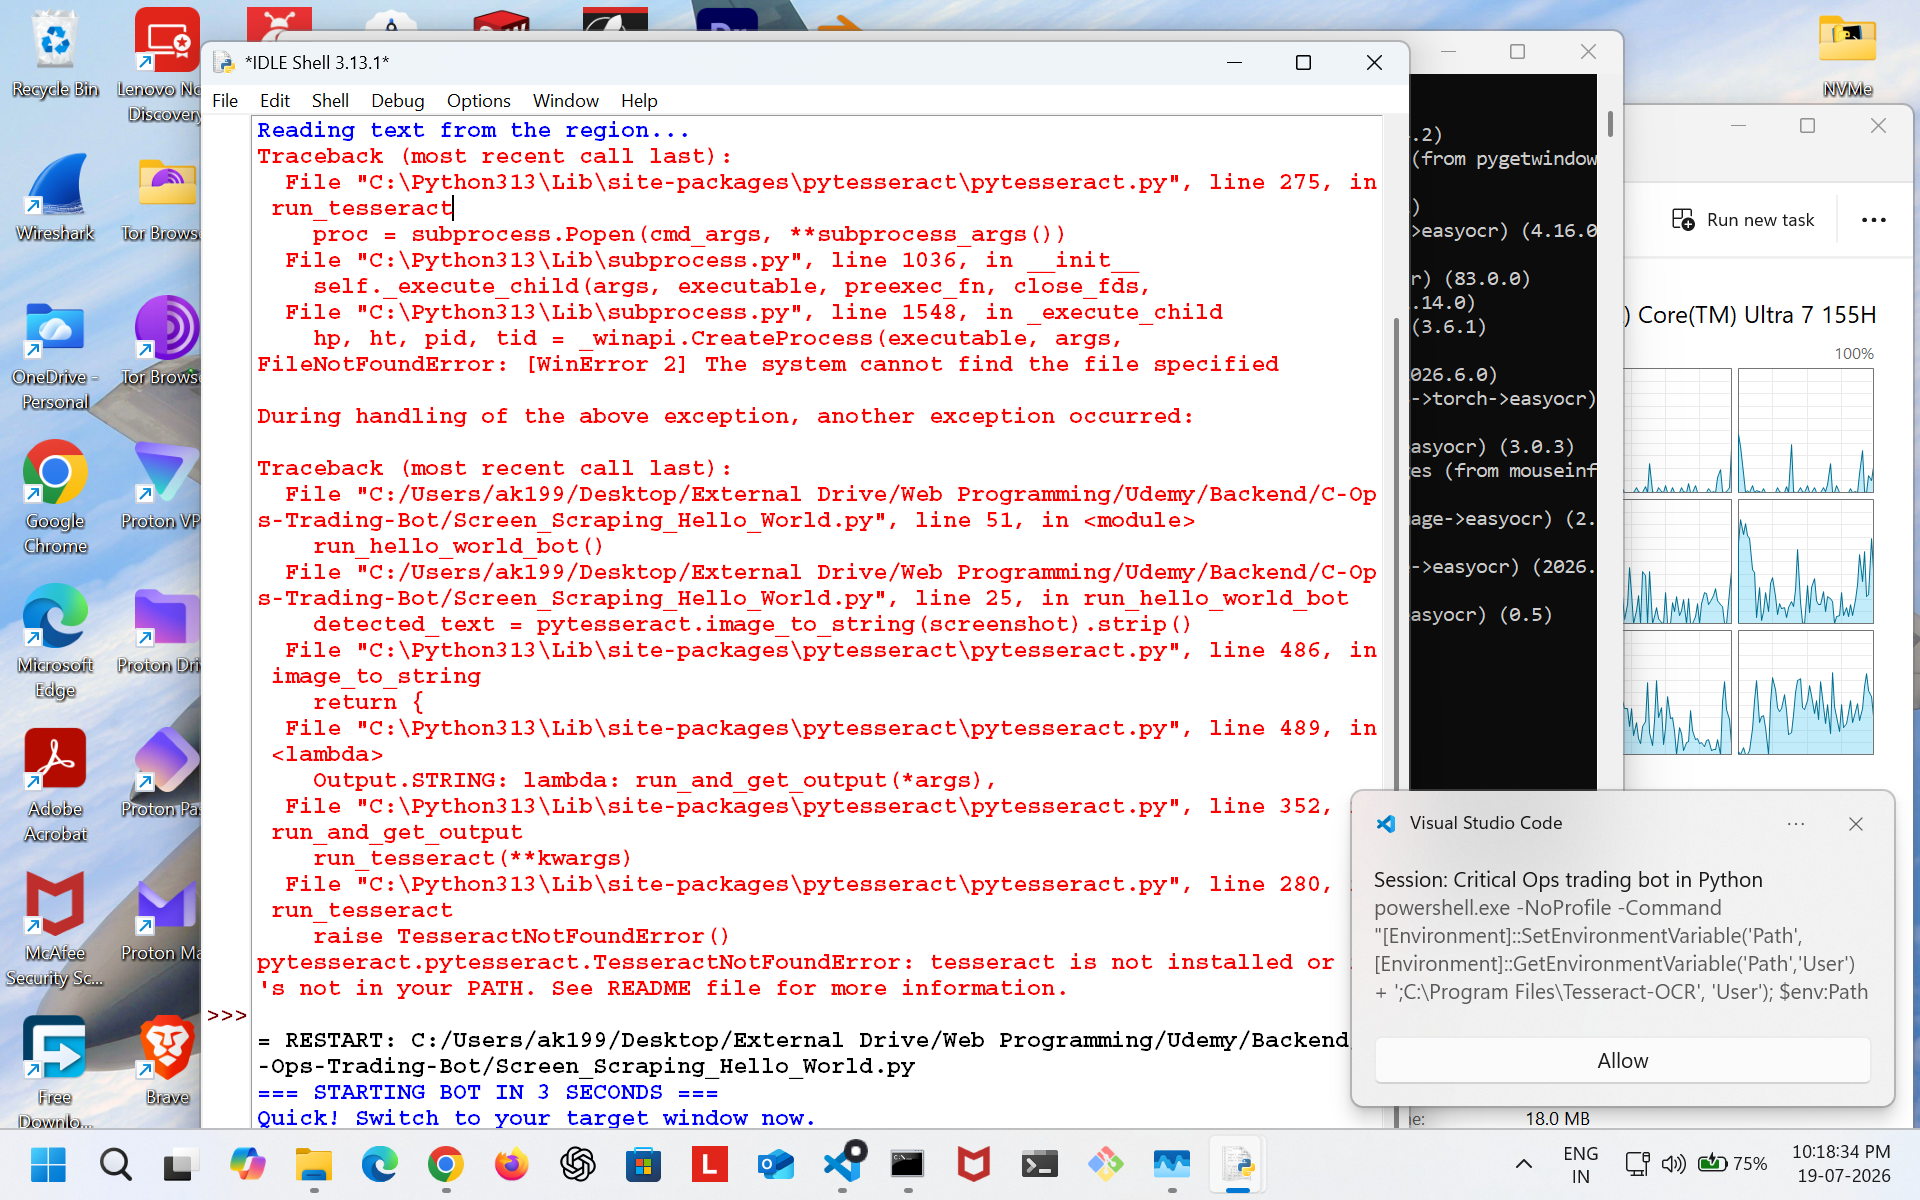
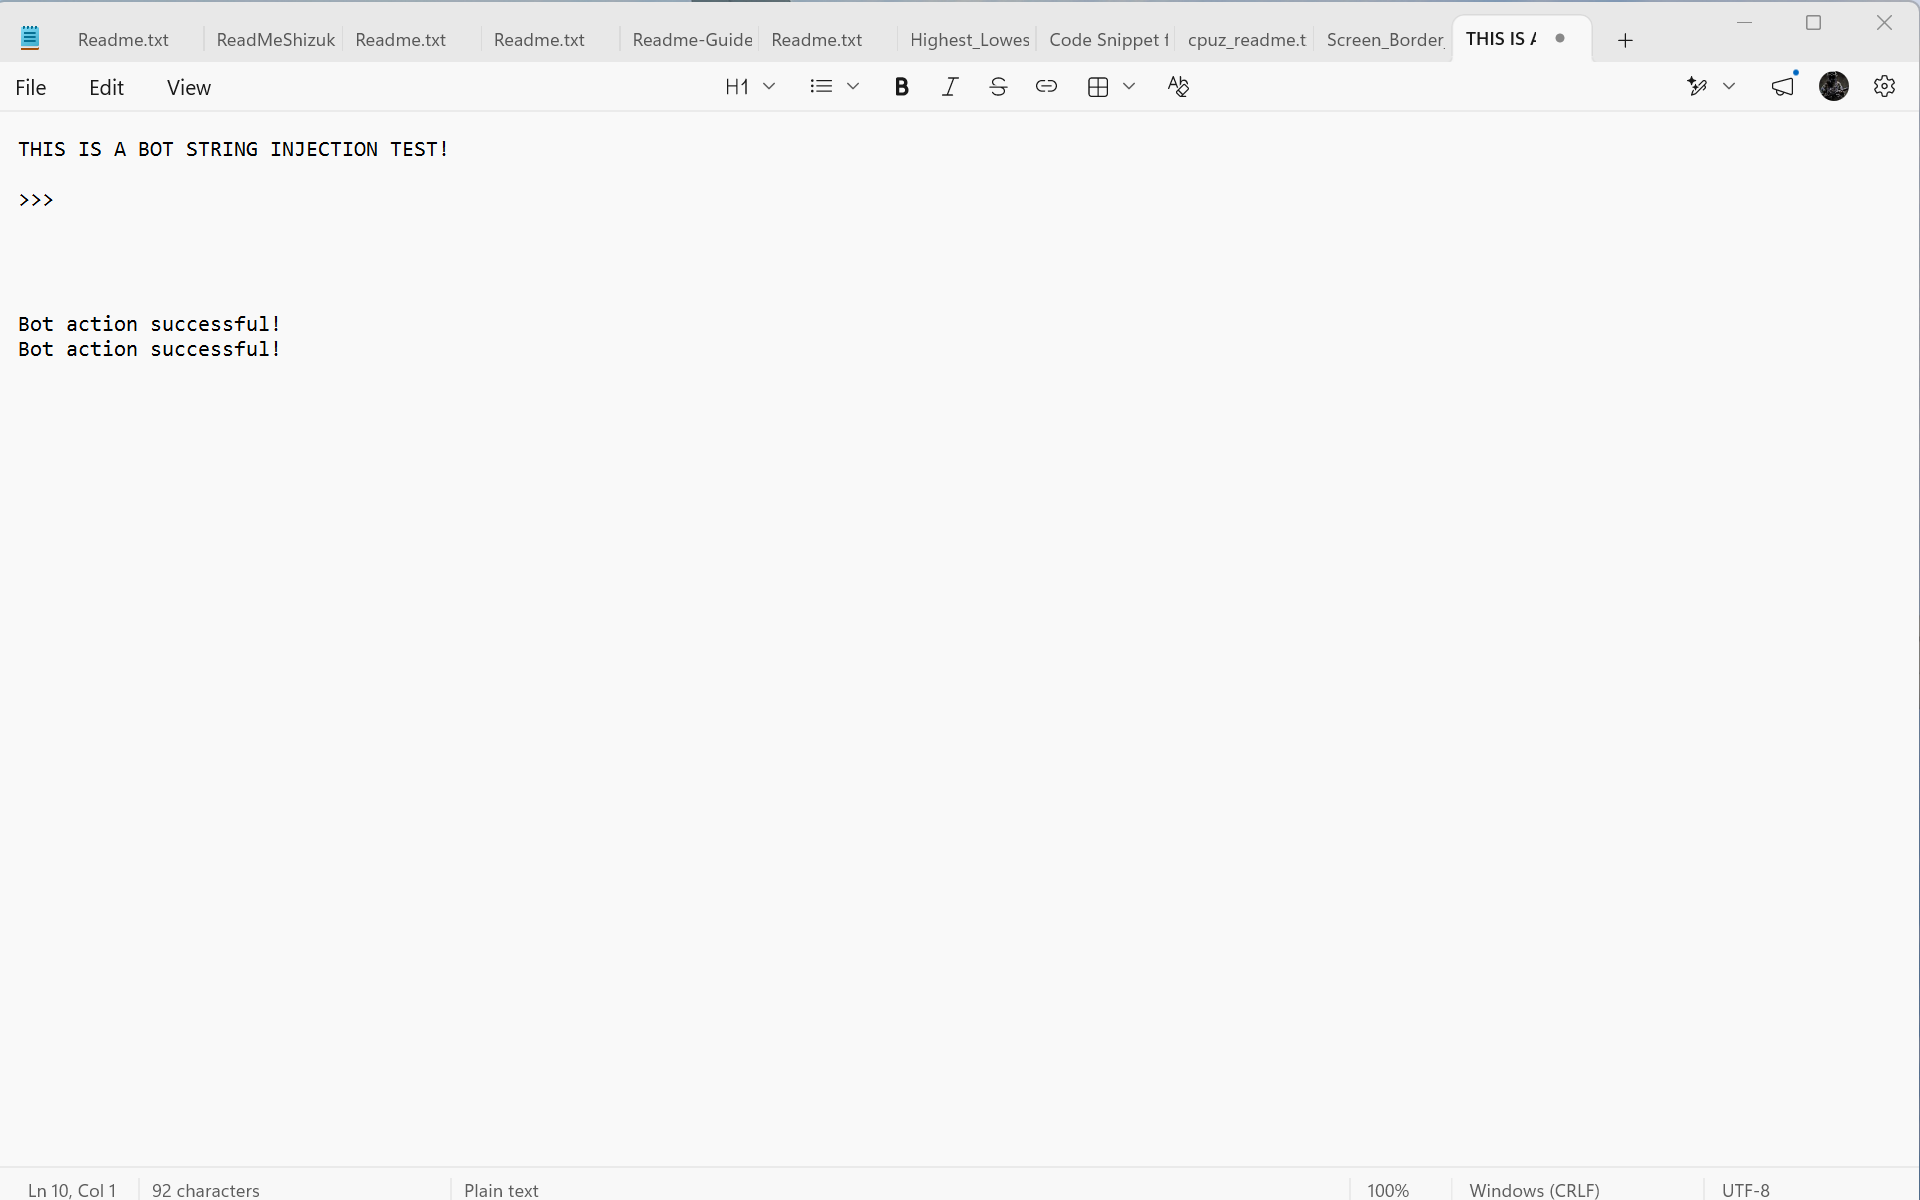
The test using Scree_Scraping_Hello_World.py is Successful! it is taking Screenshot -> Reading Text from it -> moving cursor to the desired location -> and then clicking -> then starts inserting text character by character...

diff --git a/Screen_Scraping_Hello_World.py b/Screen_Scraping_Hello_World.py
@@ -1,51 +1,68 @@
+import os
+import shutil
 import time
 import pyautogui
 import pytesseract
 from PIL import Image
 
-# WINDOWS USERS: Change this to your actual Tesseract installation path
-# pytesseract.pytesseract.tesseract_cmd = r'C:/Program Files/Tesseract-OCR/tesseract.exe'
+
+def _configure_tesseract() -> str:
+    """Locate and configure the Tesseract executable for this Windows environment."""
+    candidates = [
+        r"C:\Program Files\Tesseract-OCR\tesseract.exe",
+        r"C:\Program Files (x86)\Tesseract-OCR\tesseract.exe",
+        os.path.join(os.environ.get("LOCALAPPDATA", ""), "Programs", "Tesseract-OCR", "tesseract.exe"),
+        os.path.join(os.environ.get("USERPROFILE", ""), "AppData", "Local", "Programs", "Tesseract-OCR", "tesseract.exe"),
+    ]
+
+    for candidate in candidates:
+        if os.path.isfile(candidate):
+            pytesseract.pytesseract.tesseract_cmd = candidate
+            os.environ["PATH"] = os.path.dirname(candidate) + os.pathsep + os.environ.get("PATH", "")
+            return candidate
+
+    resolved = shutil.which("tesseract")
+    if resolved:
+        pytesseract.pytesseract.tesseract_cmd = resolved
+        return resolved
+
+    raise RuntimeError("Tesseract is not installed or could not be found on this machine.")
+
+
+TESSERACT_EXE = _configure_tesseract()
+print(f"Using Tesseract at: {TESSERACT_EXE}")
+
 
 def run_hello_world_bot():
     print("=== STARTING BOT IN 3 SECONDS ===")
     print("Quick! Switch to your target window now.")
     time.sleep(3)
 
-    # 1. SCREEN SCRAPING (Capture top-left corner of your primary screen)
-    # Box parameters: (left_x, toy_y, width, height)
     sample_region = (0, 0, 1920, 1200)
     screenshot = pyautogui.screenshot(region=sample_region)
-
-    # Save image locally so you can physically see what the bot looked at
     screenshot.save("bot_vision_test.png")
     print("Captured screenshot saved as 'bot_vision_test.png'")
 
-    # 2. OCR (Read text from the screen region)
     print("Reading text from the region...")
     detected_text = pytesseract.image_to_string(screenshot).strip()
-    print(f"OCR Result found: '{detected_text}'")
+    print(f"OCR Result found: '\n\n{detected_text}\n\n'")
 
-    # 3. MOUSE ACTION (Move smoothly to the center of our region)
-    # Center calculation: left + (width / 2), top + (height / 2)
     center_x = 0 + (1920 // 2)
     center_y = 0 + (1200 // 2)
 
     print(f"Moving mouse to center position: ({center_x}, {center_y})")
     pyautogui.moveTo(center_x, center_y, duration=1.5)
-    # Takes 1.5 seconds to glide
 
     print("Clicking the screen...")
     pyautogui.click()
     time.sleep(0.5)
-    # Quick pause after click
 
-    # 4. KEYBOARD ACTION (Type a response)
-    message = "Bot action successful!"
+    message = "Bot action successful!\n"
     print(f"Typing text: '{message}'")
     pyautogui.write(message, interval=0.1)
-    # Type with a 100ms delay per character
 
     print("\n=== BOT RUN COMPLETE ===")
+
 
 if __name__ == "__main__":
     run_hello_world_bot()